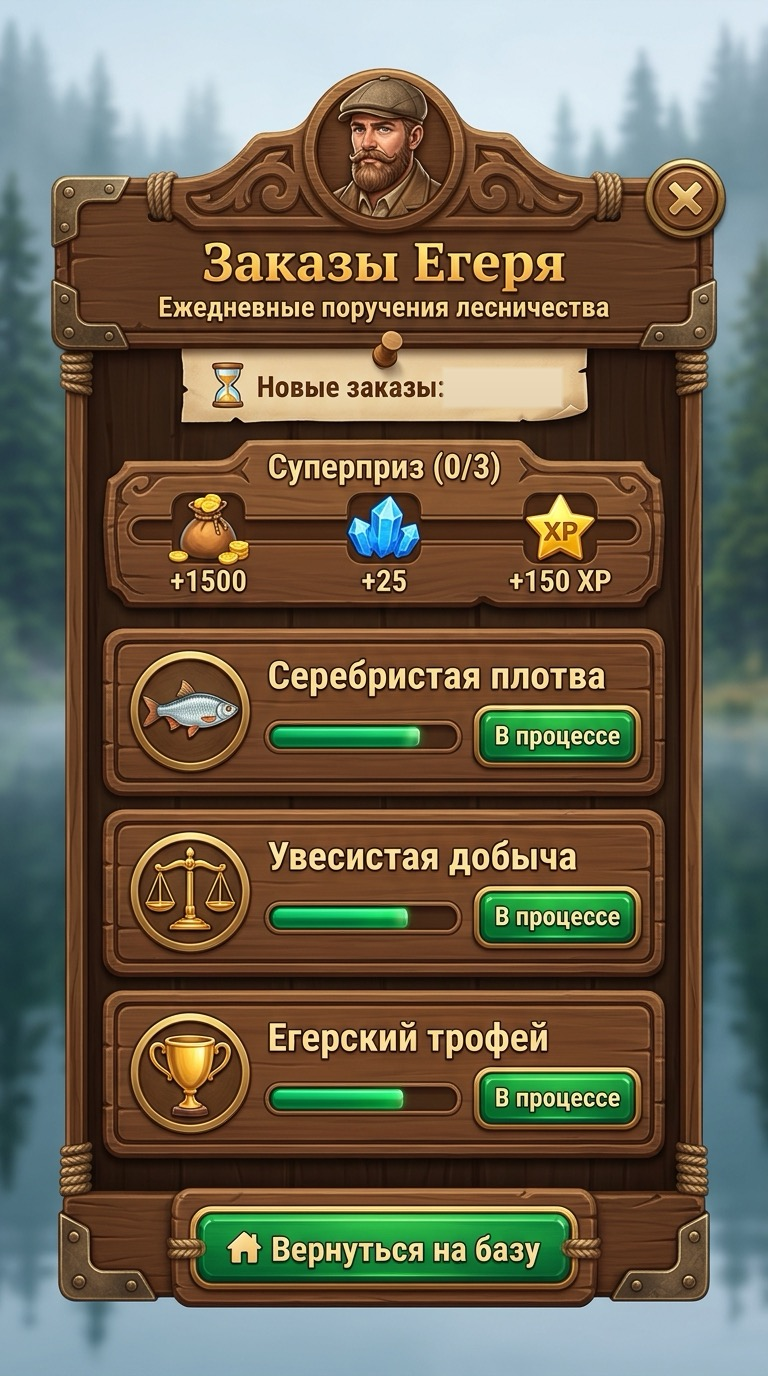
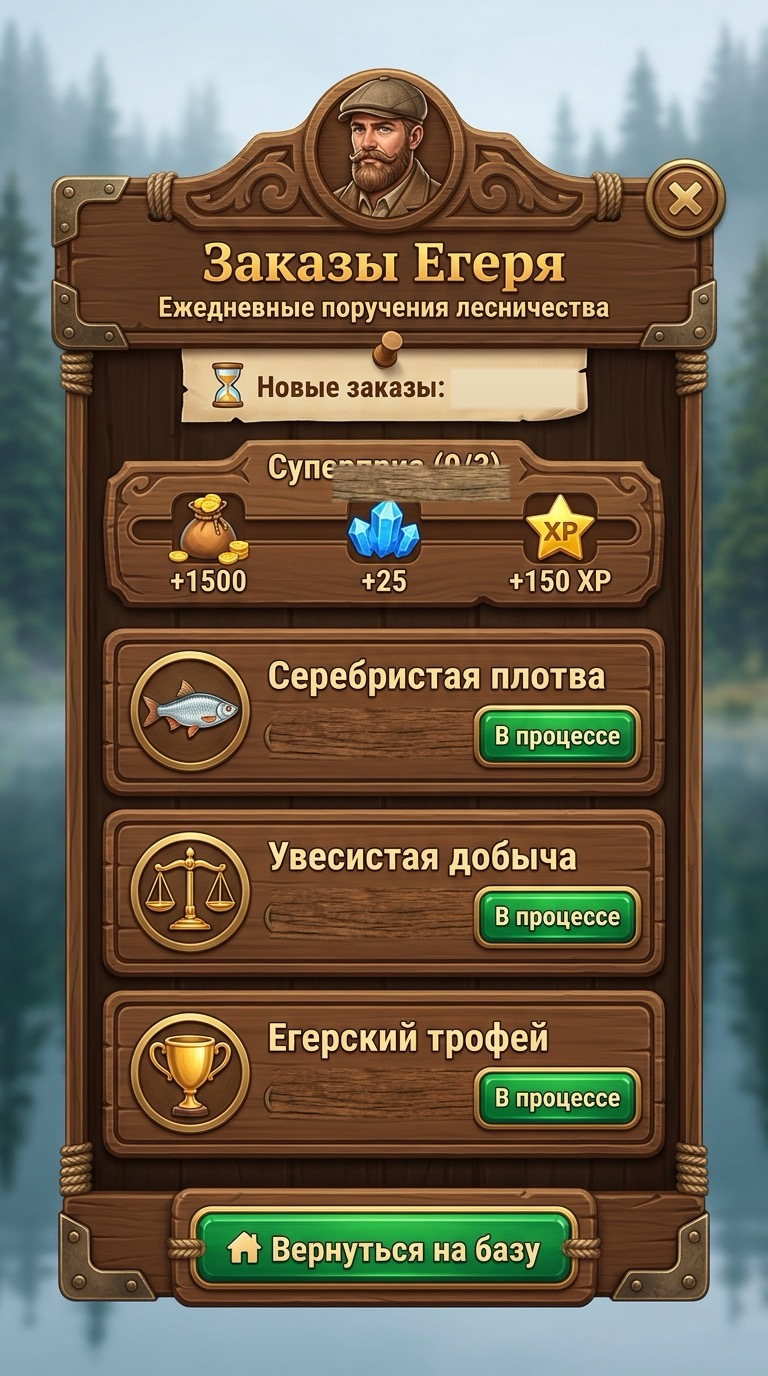
fix(ui): refine Ranger Quests board with timer spacing, remove super prize text and quest progress bars v1.5.9.14

diff --git a/src/components/RangerQuestsModal.tsx b/src/components/RangerQuestsModal.tsx
@@ -14,25 +14,16 @@ interface RangerQuestsModalProps {
 }
 
 const QUEST_CONFIGS = [
-  {
-    progressTop: '52.0%',
-    buttonTop: '51.7%',
-  },
-  {
-    progressTop: '65.0%',
-    buttonTop: '64.8%',
-  },
-  {
-    progressTop: '78.1%',
-    buttonTop: '77.9%',
-  },
+  { buttonTop: '51.7%' },
+  { buttonTop: '64.8%' },
+  { buttonTop: '77.9%' },
 ];
 
 export const RangerQuestsModal: React.FC<RangerQuestsModalProps> = ({
   quests,
   allCompletedBonusClaimed,
   timeUntilMidnight,
-  completedCount,
+  completedCount: _completedCount,
   canClaimBonus,
   onClaimQuestReward,
   onClaimDailyBonus,
@@ -92,50 +83,31 @@ export const RangerQuestsModal: React.FC<RangerQuestsModalProps> = ({
           }}
         />
 
-        {/* Живой таймер справа от надписи «Новые заказы:» */}
+        {/* Живой таймер справа от надписи «Новые заказы:» (без фона, с отступом от двоеточия, шрифтом Georgia) */}
         <div
           style={{
             position: 'absolute',
-            left: '58.2%',
+            left: '63.0%',
             top: '26.8%',
-            width: '18.0%',
+            width: '20.0%',
             height: '2.8%',
             display: 'flex',
             alignItems: 'center',
             justifyContent: 'flex-start',
-            color: '#3d1a03',
+            color: '#381604',
             fontWeight: 900,
             fontSize: 'clamp(11px, 2.3vw, 15px)',
-            fontFamily: 'system-ui, -apple-system, sans-serif',
-            letterSpacing: '0.4px',
+            fontFamily: 'Georgia, serif',
+            letterSpacing: '0.6px',
+            background: 'transparent',
+            border: 'none',
             pointerEvents: 'none',
           }}
         >
           {timeUntilMidnight}
         </div>
 
-        {/* Живой прогресс суперприза */}
-        <div
-          style={{
-            position: 'absolute',
-            left: '36.0%',
-            top: '32.1%',
-            width: '28.0%',
-            height: '2.8%',
-            display: 'flex',
-            alignItems: 'center',
-            justifyContent: 'center',
-            color: '#fef3c7',
-            fontWeight: 900,
-            fontSize: 'clamp(11px, 2.3vw, 14px)',
-            textShadow: '0 1px 3px rgba(0, 0, 0, 0.95)',
-            pointerEvents: 'none',
-          }}
-        >
-          Суперприз ({completedCount}/3)
-        </div>
-
-        {/* Кнопка забрать суперприз дня, когда выполнены все 3 заказа */}
+        {/* Кнопка забрать финальную награду дня, когда выполнены все 3 заказа */}
         {canClaimBonus && (
           <button
             onClick={() => {
@@ -166,7 +138,7 @@ export const RangerQuestsModal: React.FC<RangerQuestsModalProps> = ({
             }}
           >
             <span>🎁</span>
-            <span>Забрать суперприз!</span>
+            <span>Забрать награду!</span>
           </button>
         )}
 
@@ -193,72 +165,16 @@ export const RangerQuestsModal: React.FC<RangerQuestsModalProps> = ({
             }}
           >
             <span>✓</span>
-            <span>Суперприз получен</span>
+            <span>Награда получена</span>
           </div>
         )}
 
-        {/* 3 карточки заданий Егеря */}
+        {/* 3 карточки заданий Егеря (кнопки сбора/статуса без лишних прогресс-баров) */}
         {quests.slice(0, 3).map((quest, idx) => {
           const config = QUEST_CONFIGS[idx];
-          const progressRatio = Math.min(1, quest.currentCount / quest.targetCount);
-          const progressPercent = Math.round(progressRatio * 100);
 
           return (
             <React.Fragment key={quest.id || idx}>
-              {/* Прогресс-бар поверх углубления в дереве */}
-              <div
-                style={{
-                  position: 'absolute',
-                  left: '34.5%',
-                  top: config.progressTop,
-                  width: '25.4%',
-                  height: '2.9%',
-                  background: '#1a0e06',
-                  borderRadius: '14px',
-                  border: '1px solid rgba(217, 119, 6, 0.6)',
-                  boxShadow: 'inset 0 2px 4px rgba(0, 0, 0, 0.9)',
-                  overflow: 'hidden',
-                  display: 'flex',
-                  alignItems: 'center',
-                }}
-              >
-                {/* Заполнение прогресс-бара */}
-                <div
-                  style={{
-                    position: 'absolute',
-                    left: 0,
-                    top: 0,
-                    bottom: 0,
-                    width: `${progressPercent}%`,
-                    background: quest.isCompleted
-                      ? 'linear-gradient(180deg, #4ade80 0%, #16a34a 60%, #15803d 100%)'
-                      : 'linear-gradient(180deg, #34d399 0%, #10b981 60%, #059669 100%)',
-                    borderRadius: '12px',
-                    boxShadow: quest.isCompleted
-                      ? '0 0 10px rgba(74, 222, 128, 0.85)'
-                      : '0 0 8px rgba(52, 211, 153, 0.8)',
-                    transition: 'width 0.3s ease',
-                  }}
-                />
-
-                {/* Числа прогресса (1/2) поверх заливки */}
-                <div
-                  style={{
-                    position: 'relative',
-                    width: '100%',
-                    textAlign: 'center',
-                    color: '#ffffff',
-                    fontWeight: 900,
-                    fontSize: 'clamp(9.5px, 2.1vw, 12.5px)',
-                    textShadow: '0 1px 3px rgba(0, 0, 0, 0.95)',
-                    letterSpacing: '0.4px',
-                    zIndex: 2,
-                  }}
-                >
-                  ({quest.currentCount}/{quest.targetCount})
-                </div>
-              </div>
-
               {/* Кнопка действия (интерактивная при завершении или получении) */}
               {quest.isClaimed ? (
                 <div
@@ -313,7 +229,7 @@ export const RangerQuestsModal: React.FC<RangerQuestsModalProps> = ({
                 >
                   Забрать! 🎁
                 </button>
-              ) : null /* В процессе уже нарисовано в самом арте Варианта В */}
+              ) : null}
             </React.Fragment>
           );
         })}

diff --git a/src/version.ts b/src/version.ts
@@ -1,1 +1,1 @@
-export const APP_VERSION = 'v1.5.9.13';
+export const APP_VERSION = 'v1.5.9.14';
